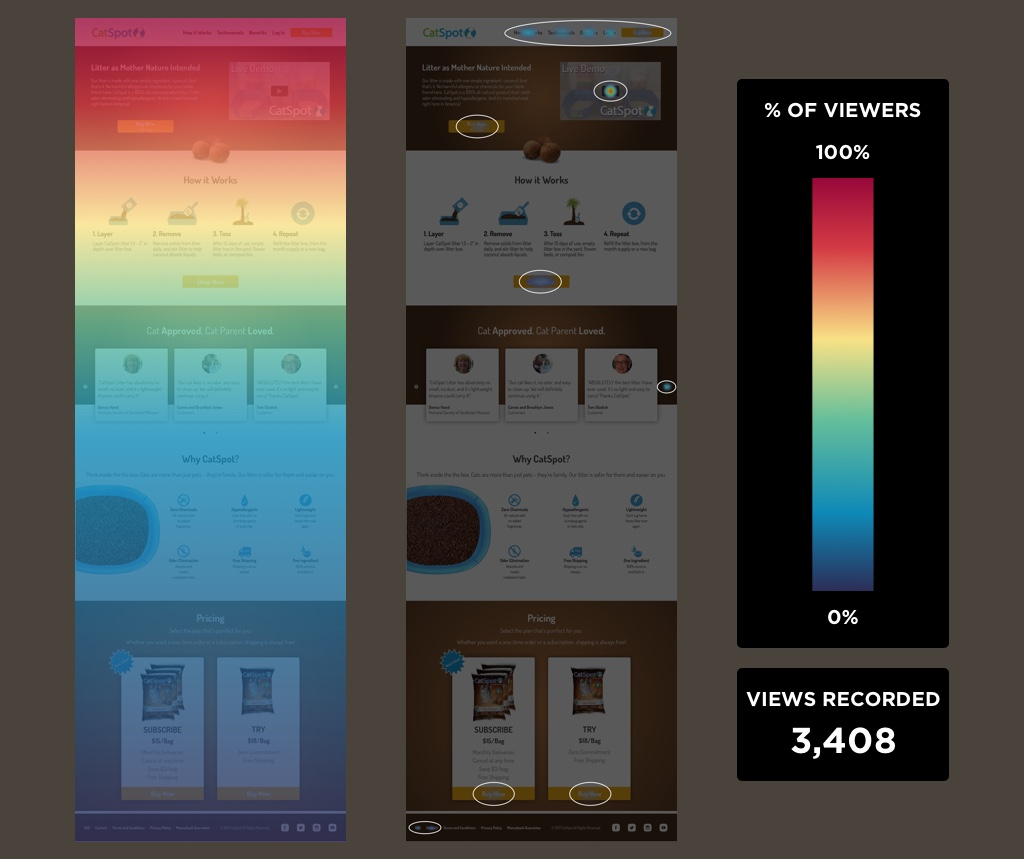
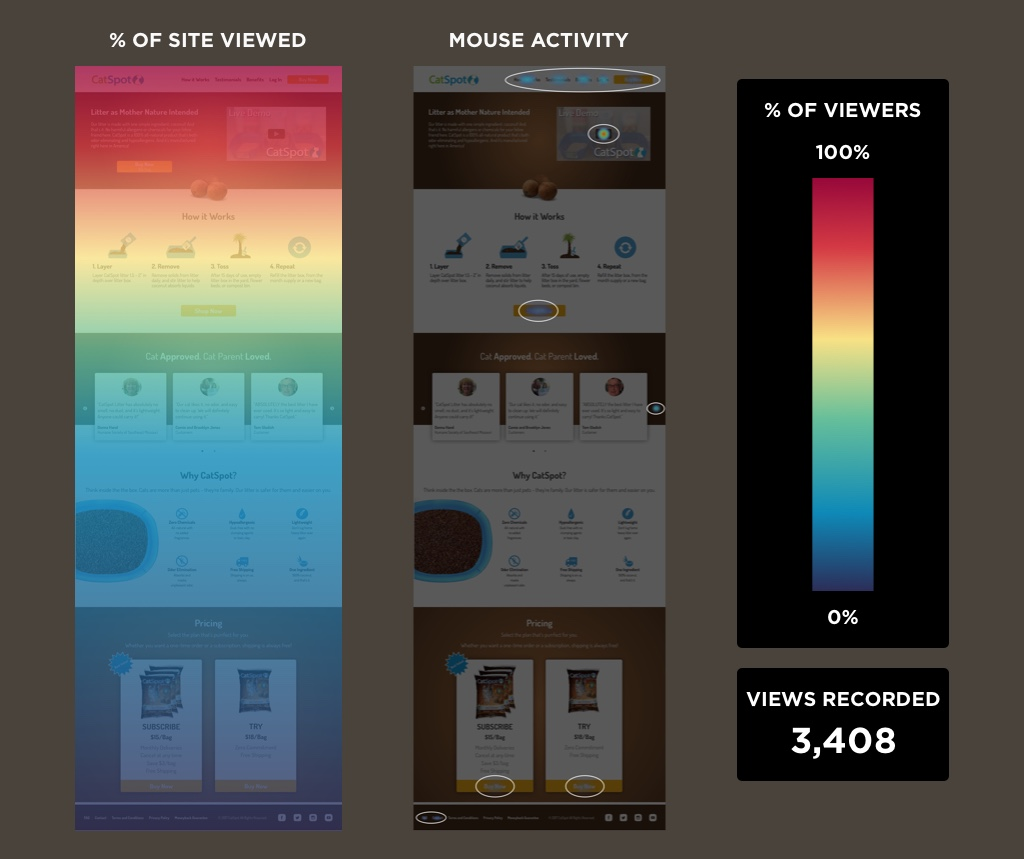
finish adding content to detail_catspot.html

diff --git a/detail_catspot.html b/detail_catspot.html
@@ -68,7 +68,7 @@
         <img src="../img/catspot_landingpage.jpg" alt="Landing page of the CatSpot site">
       </div>
       <div class="project-desc-1">
-        <p>While I was interning at Sq1, a creative agency in Portland, Oregon, I was asked to take a look at the landing page for CatSpot Litter and create a secondary design to incorporate into an A/B test. I utilized user data gathered through Hotjar, a user behavior tracking tool, to generate an alternate design which rearranged the information structure to bring more pertinent information higher up on the screen.</p>
+        <p>While I was interning at Sq1, a creative agency in Portland, Oregon, I was asked to take a look at the landing page for CatSpot Litter and create a secondary design to incorporate into an A/B test. CatSpot was experiencing a lower conversion rate for users purchasing their monthly subscription box than they wanted and wanted to explore some alternative design options to hopefully bring that number up. I utilized user data gathered through Hotjar, a user behavior tracking tool, to generate an alternate design which rearranged the information structure to bring more pertinent information higher up on the screen.</p>
       </div>
       <!-- <div class="button-wrapper">
         <div class="button-container">
@@ -83,15 +83,15 @@
         <img src="../img/catspot_heatmap.jpg" alt="Heatmap data gathered from Hotjar">
       </div>
       <div class="project-desc-2">
-        <h2>Updated user experience and interface</h2>
-        <p>In redesigning the user interface for Sq1's raffle app, I wanted to maintain the original aesthetic, but updated its overall feel, while making the UX more straightforward. I did this by including easy-to-read buttons on each raffle, making clear how to edit, delete, and see participants in the raffle. I also moved the 'New Raffle' button down into the main viewing area of the screen and made it large with descriptive text. Additionally I incorporated slight gradients, large, simple iconography, and tasteful integration of drop shadows to modernize the look and feel. For comparison, see the old interface on top.</p>
+        <h2>Reading heatmap data for smarter design</h2>
+        <p>There are two heat map reports that Hotjar generates that I found useful for this project - the first shows what percent of users view which portions of your page, providing an idea of how deep into your site users are getting before exiting. The second report shows where users are clicking on your site - the higher the percentage, the closer to red those areas will be (I have circled these hot spots in white above). For CatSpot, I could tell that users were only spending their time in the upper half of the landing page and using the 'Shop Now' button within the 'How It Works' section more than any of the other CTA buttons, which is located within the upper half of the page.</p>
       </div>
       <div class="project-pic-2">
-        <img src="../img/raffle_userflow.jpg" alt="The user flow through the Sq1 Raffle site">
+        <img src="../img/catspot_new layout.jpg" alt="The user flow through the Sq1 Raffle site">
       </div>
       <div class="project-desc-2">
-        <h2>A more streamlined user flow</h2>
-        <p>The original raffle app that I was redesigning often left the user with questions as they navigated through the interface: how do I register for a raffle? How do I create a new raffle? Who has already registered for a particular raffle? With my design I help users answer these questions through straightforward button placement and strong visual cues, as well as a more predictable flow through application.</p>
+        <h2>Information where it can be most useful</h2>
+        <p>Knowing that the majority of users were only ever reaching the top half of the site before exiting, and those that were clicking to purchase the product were doing so using the CTA that was also located within the upper portion of the screen, I created a design that moved the product's pricing details higher to better inform consumers of their options before making a purchase.</p>
       </div>
     </div>
     <div class="footer footer-project">

diff --git a/scss/layout/_projects.scss b/scss/layout/_projects.scss
@@ -44,7 +44,9 @@
           object-fit: cover;
           width: 100%;
           position: relative;
-          filter: grayscale(80%);
+          @media #{$breakpoint-large} {
+            filter: grayscale(80%);  
+          }
         }
         .project-title {
           position: absolute;
